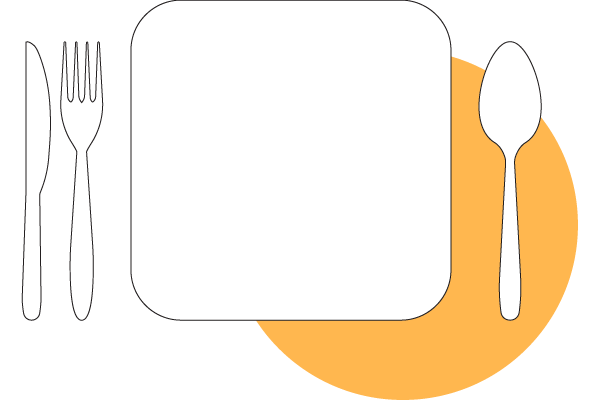
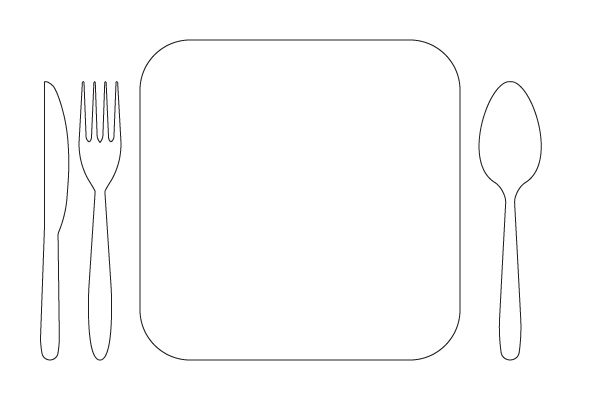
media queries, små fix och fel och css för bild fix

diff --git a/src/js/search.js b/src/js/search.js
@@ -51,23 +51,23 @@ async function displayCountry() {
 
 
     //Printa ut recept
-    let recipees = await searchRecipe(country.demonyms.eng.m);
+    let recipes = await searchRecipe(country.demonyms.eng.m);
 
     reset();
 
     //Skriver ut alla recept som finns dvs namn och foton
-    if (recipees && recipees.length > 0) {
+    if (recipes && recipes.length > 0) {
 
         let recipeList = document.getElementById("recipe-list");
         recipeList.replaceChildren();
 
         recipeList.style.display = "flex";
-        recipees.forEach((recipe) => {
+        recipes.forEach((recipe) => {
             createRecipe(recipe, recipeList);
         });
 
     } else {
-        document.getElementById("recipe-list").innerHTML = "<p>Recipees not found</p>";
+        document.getElementById("recipe-list").innerHTML = "<p>Recipes not found</p>";
     }
 
 }
@@ -81,6 +81,7 @@ function createRecipe(recipe, recipeList) {
     let p = document.createElement("p");
     let pText = document.createTextNode(recipe.title);
     p.appendChild(pText);
+    p.style.fontWeight = "600";
 
     //skapar nytt img element för recept
     let imgRecipe = document.createElement("img");
@@ -110,15 +111,12 @@ function displayRecipe(recipe) {
     //Scrolla ner till avsnitt
     plateWrap.scrollIntoView();
 
-
-
-    plateText.innerHTML = "";
-
     //Slå ihop img för specifik recept
     let plateContainer = document.querySelector(".plate-container");
     let plateImgDiv = document.querySelector(".plate-image");
     let plateImgEl = document.createElement("img");
 
+    plateText.innerHTML = "";
     plateImgDiv.innerHTML = "";
 
     plateImgEl.src = recipe.image;
@@ -193,7 +191,7 @@ async function searchRecipe(country) {
 
     //Hämtar specifik recept beroende på land
     //API-nyckel a27a5cdda1734a16ab18c52ed375e373
-    const recipeUrl = "https://api.spoonacular.com/recipes/complexSearch?query=" + country + "&apiKey=458947a7158e4062a08192e20a720fbc&number=20&addRecipeInformation=true&fillIngredients=true&type=main+course&type=breakfast&type=soup&type=appetizer&type=salad&type=side+dish";
+    const recipeUrl = "https://api.spoonacular.com/recipes/complexSearch?query=" + country + "&apiKey=458947a7158e4062a08192e20a720fbc&number=20&addRecipeInformation=true&fillIngredients=true&type=main+course,breakfast,soup,bread,appetizer,salad,side+dish";
     //Kör fetch på url som returnerar en promise
     try {
         let response = await fetch(recipeUrl);

diff --git a/src/css/_content.scss b/src/css/_content.scss
@@ -35,12 +35,13 @@ main {
 
 .welcome-image {
     width: 100%;
-    max-width: 50rem;
+    max-width: 45rem;
     animation: move_image 2s ease-in-out forwards;
+    position: relative;
 
     img {
         display: block;
-        max-width: 50rem;
+        max-width: 45rem;
         width: 100%;
         filter: base.$filter-shadow;
     }
@@ -134,6 +135,7 @@ main {
     padding: base.$base-padding;
     visibility: hidden;
     animation: text_fade 1s ease-in-out forwards;
+    justify-content: space-around;
 
     .recipe-wrap {
         max-width: 20rem;
@@ -160,15 +162,30 @@ main {
     gap: base.$base-gap;
     padding: base.$base-padding;
 
-    .plate-image {
-        max-width: 30rem;
-        width: 100%;
+    .plate-recipe-text {
+        animation: text_fade 1s ease-in-out forwards;
+        z-index: -1;
         position: relative;
-        bottom: 35rem;
-        left: 14.1rem;
+        visibility: hidden;
+    }
+
+    .plate-container {
+        animation: move_image 2s ease-in-out forwards;
+        position: relative;
+        max-width: 60rem;
+        width: 100%;
+        height: 100%;
+
+    }
+
+    .plate-image {
+        position: absolute;
+        top: 50%;
+        left: 50%;
+        transform: translate(-50%, -50%);
 
         img {
-            width: 100%;
+            max-width: 100%;
             display: block;
             border-radius: 4rem;
         }
@@ -178,21 +195,11 @@ main {
         filter: base.$filter-shadow;
     }
 
-    .plate-recipe-text {
-        animation: text_fade 1s ease-in-out forwards;
-        z-index: -1;
-        position: relative;
-        visibility: hidden;
-    }
-
-    .plate-container {
-            animation: move_image 2s ease-in-out forwards;
-
-    }
 
     .steps-list {
         list-style: decimal;
         margin-left: base.$base-margin;
+
         li {
             margin-bottom: base.$base-margin;
         }

diff --git a/src/index.html b/src/index.html
@@ -58,11 +58,13 @@
         <div class="plate-wrap">
 
             <div class="plate-container">
-                <div class="plate-image"></div>
                 <picture>
                     <source srcset="img/plate.png?as=webp&height=400&width=600" type="image/webp">
                     <img src="img/plate.png" alt="plate">
                 </picture>
+
+                <div class="plate-image"></div>
+                
             </div>
 
             <div class="plate-text"></div>
@@ -80,6 +82,11 @@
             <li>
                 All recipes with ingredients and instructions are collected from Spoonacular API
             </li>
+            <li>&copy; Hanin Farhan</li>
+            <li>Projekt</li>
+            <li>DT211G - Frontend-baserad webbutveckling</li>
+            <li>webbutveckling</li>
+            <li>Mittuniversitet</li>
         </ul>
     </footer>
 </body>

diff --git a/src/css/_mediaqueries.scss b/src/css/_mediaqueries.scss
@@ -1,0 +1,37 @@
+@media screen and (max-width:950px) {
+
+    .plate-wrap {
+        flex-direction: column;
+
+
+    }
+
+    .welcome-wrap {
+        flex-direction: column;
+        align-items: center;
+        gap: 0;
+    }
+
+    #recipe-list {
+        gap: 2rem;
+    }
+
+    .plate-container {
+        animation: no !important;
+        margin: 0 auto;
+
+        img {
+            width: 100%;
+        }
+    }
+}
+
+@media screen and (max-width:550px) {
+    #recipe-list .recipe-wrap {
+        max-width: 60rem;
+
+        img {
+            max-width: 60rem;
+        }
+    }
+}

diff --git a/src/css/_footer.scss b/src/css/_footer.scss
@@ -4,7 +4,6 @@
 
 footer {
     @include grid.grid-footer;
-    height: 10rem;
     background-color: base.$dark-grey-bg;
     width: 100%;
     max-width: 1920px;

diff --git a/src/css/_grid.scss b/src/css/_grid.scss
@@ -1,5 +1,6 @@
 body {
     font-family: "Montserrat", sans-serif;
+    overflow-x: hidden;
     background-color: #FFFAEC;
     display: grid;
     height: 100%;

diff --git a/src/css/main.scss b/src/css/main.scss
@@ -7,3 +7,4 @@
 @use 'component';
 @use 'animations';
 @use 'footer';
+@use 'mediaqueries';
